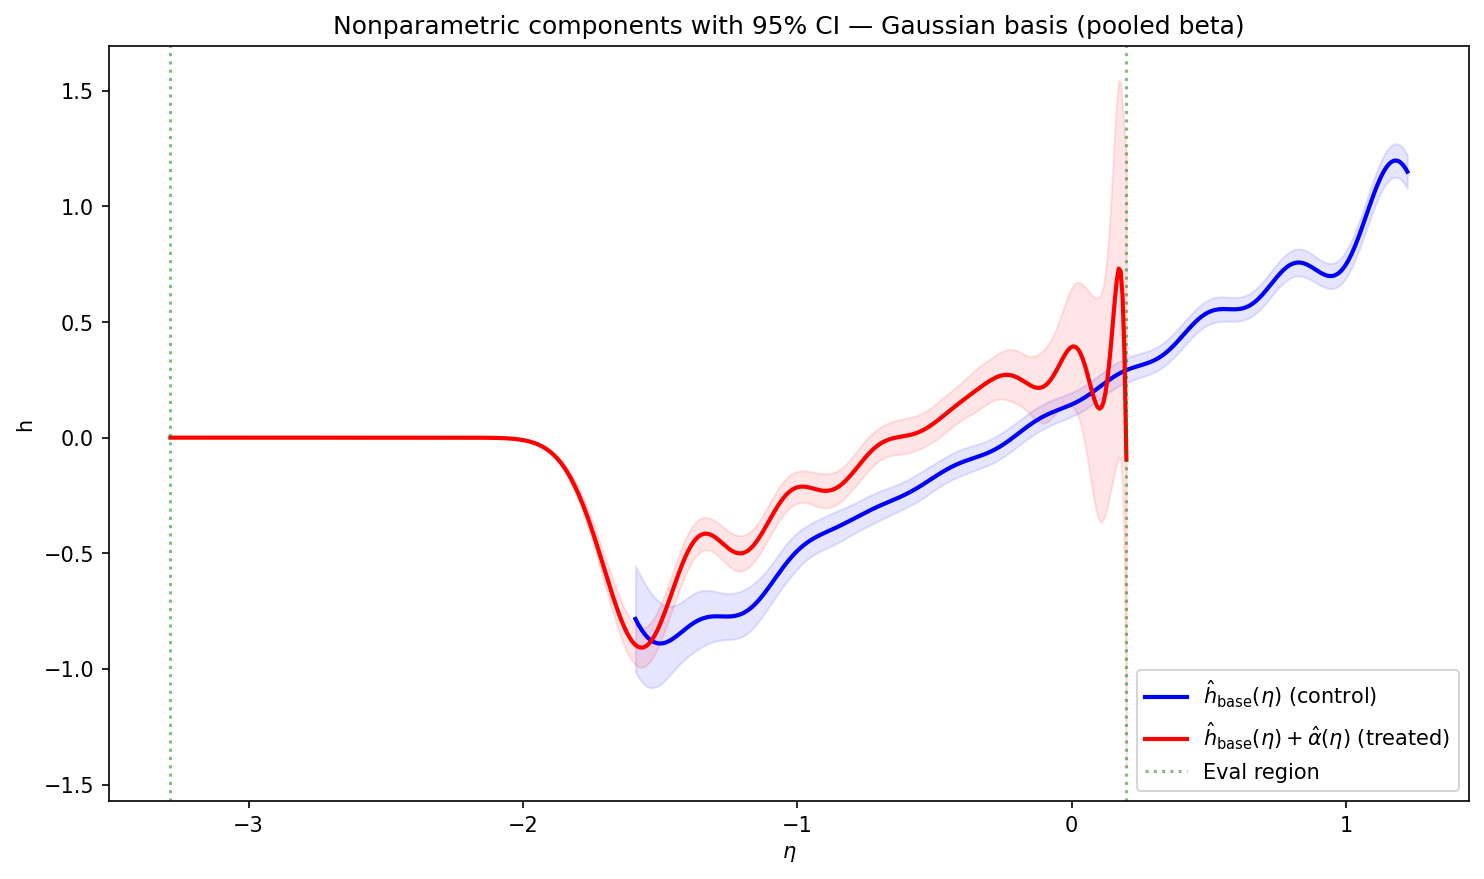
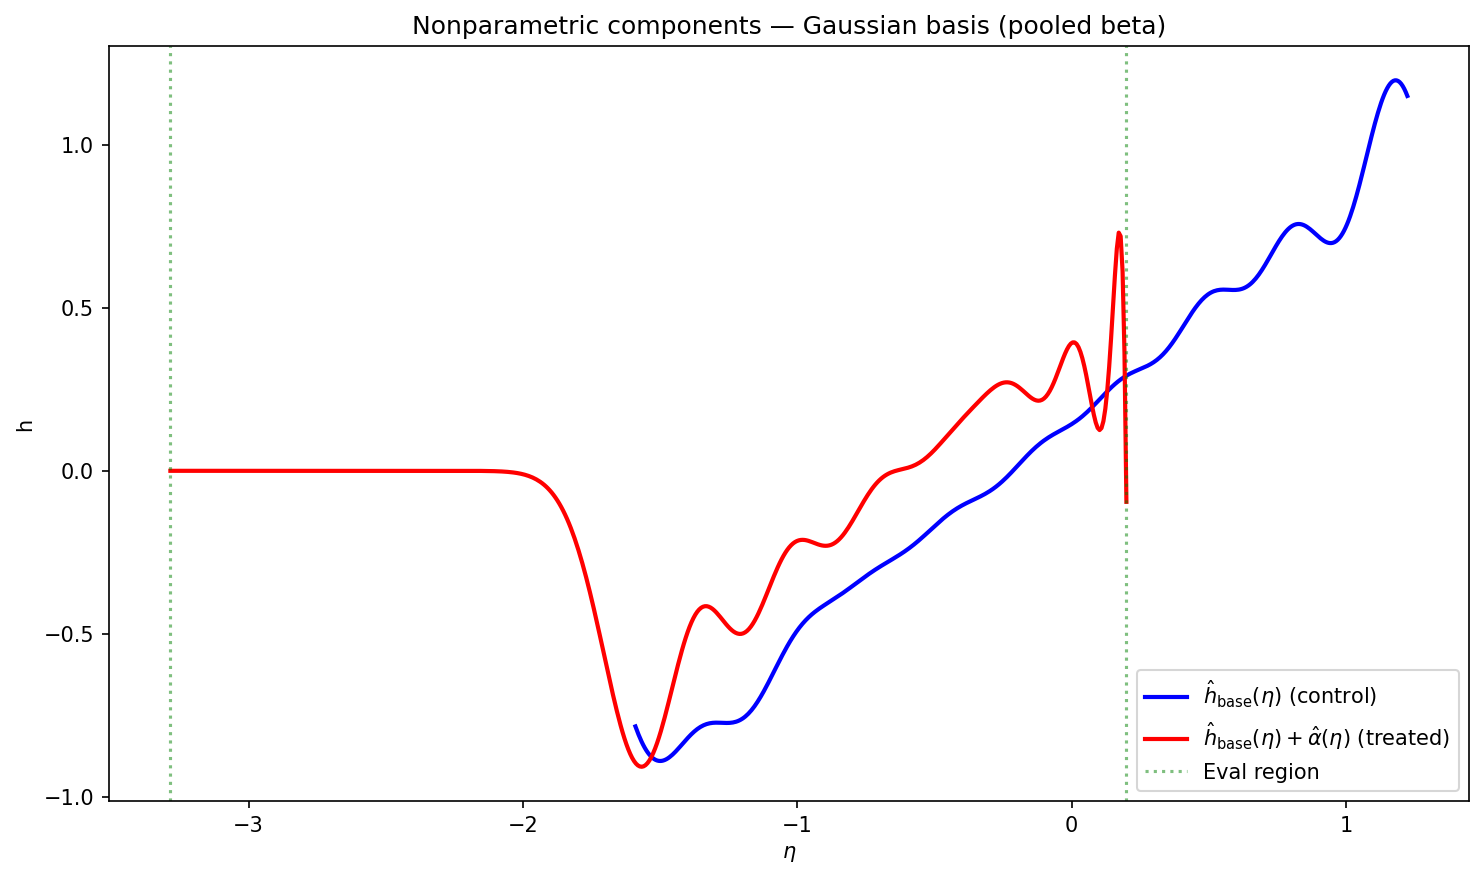
Remove 95% confidence interval bands from GPA analysis figures

diff --git a/experiments/gpa/general/daniel/gpa_analysis_gaussian.py b/experiments/gpa/general/daniel/gpa_analysis_gaussian.py
@@ -134,15 +134,8 @@ def run_analysis(eval_mode="trimmed"):
 
     print(f"\nbeta: {np.array2string(beta, precision=4, separator=', ')}")
 
-    # ---- OLS covariance for confidence intervals ----
     resid = y - H @ be
     sigma2 = np.sum(resid**2) / (n - H.shape[1])
-    HtH_inv = np.linalg.pinv(H.T @ H)
-    cov_treat = sigma2 * HtH_inv[p + n_basis:, p + n_basis:]
-    cov_base = sigma2 * HtH_inv[p:p + n_basis, p:p + n_basis]
-    cov_sum = cov_base + cov_treat + \
-              sigma2 * (HtH_inv[p:p + n_basis, p + n_basis:] +
-                        HtH_inv[p + n_basis:, p:p + n_basis])
     print(f"Residual std: {np.sqrt(sigma2):.4f}")
 
     # ---- Evaluation region ----
@@ -159,15 +152,6 @@ def run_analysis(eval_mode="trimmed"):
     eta_grid = np.linspace(eval_lo, eval_hi, 500)
     Phi_grid = _eval_basis(eta_grid, info)
     alpha_vals = Phi_grid @ omega_treat
-
-    # 95% CI for alpha
-    alpha_se = np.sqrt(np.sum((Phi_grid @ cov_treat) * Phi_grid, axis=1))
-    alpha_lo95 = alpha_vals - 1.96 * alpha_se
-    alpha_hi95 = alpha_vals + 1.96 * alpha_se
-
-    # 95% CI for h functions
-    hbase_se = np.sqrt(np.sum((Phi_grid @ cov_base) * Phi_grid, axis=1))
-    htreat_se = np.sqrt(np.sum((Phi_grid @ cov_sum) * Phi_grid, axis=1))
 
     # Plug-in
     in_eval = (eta_Tr >= eval_lo) & (eta_Tr <= eval_hi)
@@ -199,10 +183,8 @@ def run_analysis(eval_mode="trimmed"):
     fig0.savefig(os.path.join(OUTDIR, f"{tag}fig0_eta_distributions.png"), dpi=150, bbox_inches="tight")
     print(f"\nSaved {tag}fig0_eta_distributions.png")
 
-    # ---- Figure 1: alpha(eta) with 95% CI ----
+    # ---- Figure 1: alpha(eta) ----
     fig1, ax1 = plt.subplots(figsize=(10, 6))
-    ax1.fill_between(eta_grid, alpha_lo95, alpha_hi95, color="blue", alpha=0.15,
-                      label="95% CI")
     ax1.plot(eta_grid, alpha_vals, "b-", linewidth=2,
              label=r"$\hat\alpha(\eta)$")
     ax1.axhline(0, color="black", linewidth=0.5)
@@ -223,25 +205,16 @@ def run_analysis(eval_mode="trimmed"):
     fig1.savefig(os.path.join(OUTDIR, f"{tag}fig1_alpha.png"), dpi=150, bbox_inches="tight")
     print(f"Saved {tag}fig1_alpha.png")
 
-    # ---- Figure 2: h_base and h_treat with 95% CI ----
+    # ---- Figure 2: h_base and h_treat ----
     eta_grid_full = np.linspace(support[0], support[1], 500)
     Phi_full = _eval_basis(eta_grid_full, info)
     h_base_full = Phi_full @ omega_base
-    hbase_se_full = np.sqrt(np.sum((Phi_full @ cov_base) * Phi_full, axis=1))
 
     h_treat_eval = Phi_grid @ (omega_base + omega_treat)
 
     fig2, ax2 = plt.subplots(figsize=(10, 6))
-    ax2.fill_between(eta_grid_full,
-                     h_base_full - 1.96 * hbase_se_full,
-                     h_base_full + 1.96 * hbase_se_full,
-                     color="blue", alpha=0.1)
     ax2.plot(eta_grid_full, h_base_full, "b-", linewidth=2,
              label=r"$\hat h_{\mathrm{base}}(\eta)$ (control)")
-    ax2.fill_between(eta_grid,
-                     h_treat_eval - 1.96 * htreat_se,
-                     h_treat_eval + 1.96 * htreat_se,
-                     color="red", alpha=0.1)
     ax2.plot(eta_grid, h_treat_eval, "r-", linewidth=2,
              label=r"$\hat h_{\mathrm{base}}(\eta) + \hat\alpha(\eta)$ (treated)")
     ax2.axvline(eval_lo, color="green", linestyle=":", alpha=0.5)
@@ -249,7 +222,7 @@ def run_analysis(eval_mode="trimmed"):
                 label="Eval region")
     ax2.set_xlabel(r"$\eta$")
     ax2.set_ylabel("h")
-    ax2.set_title("Nonparametric components with 95% CI — Gaussian basis (pooled beta)")
+    ax2.set_title("Nonparametric components — Gaussian basis (pooled beta)")
     ax2.legend()
     fig2.tight_layout()
     fig2.savefig(os.path.join(OUTDIR, f"{tag}fig2_h_functions.png"), dpi=150, bbox_inches="tight")

diff --git a/experiments/gpa/general/daniel/gpa_analysis.py b/experiments/gpa/general/daniel/gpa_analysis.py
@@ -133,15 +133,8 @@ def run_analysis(eval_mode="trimmed"):
 
     print(f"\nbeta: {np.array2string(beta, precision=4, separator=', ')}")
 
-    # ---- OLS covariance for confidence intervals ----
     resid = y - H @ be
     sigma2 = np.sum(resid**2) / (n - H.shape[1])
-    HtH_inv = np.linalg.pinv(H.T @ H)
-    cov_treat = sigma2 * HtH_inv[p + n_basis:, p + n_basis:]
-    cov_base = sigma2 * HtH_inv[p:p + n_basis, p:p + n_basis]
-    cov_sum = cov_base + cov_treat + \
-              sigma2 * (HtH_inv[p:p + n_basis, p + n_basis:] +
-                        HtH_inv[p + n_basis:, p:p + n_basis])
     print(f"Residual std: {np.sqrt(sigma2):.4f}")
 
     # ---- Evaluation region ----
@@ -158,15 +151,6 @@ def run_analysis(eval_mode="trimmed"):
     eta_grid = np.linspace(eval_lo, eval_hi, 500)
     Phi_grid = _eval_basis(eta_grid, info)
     alpha_vals = Phi_grid @ omega_treat
-
-    # 95% CI for alpha
-    alpha_se = np.sqrt(np.sum((Phi_grid @ cov_treat) * Phi_grid, axis=1))
-    alpha_lo95 = alpha_vals - 1.96 * alpha_se
-    alpha_hi95 = alpha_vals + 1.96 * alpha_se
-
-    # 95% CI for h functions
-    hbase_se = np.sqrt(np.sum((Phi_grid @ cov_base) * Phi_grid, axis=1))
-    htreat_se = np.sqrt(np.sum((Phi_grid @ cov_sum) * Phi_grid, axis=1))
 
     # Plug-in
     in_eval = (eta_Tr >= eval_lo) & (eta_Tr <= eval_hi)
@@ -198,10 +182,8 @@ def run_analysis(eval_mode="trimmed"):
     fig0.savefig(os.path.join(OUTDIR, f"{tag}fig0_eta_distributions.png"), dpi=150, bbox_inches="tight")
     print(f"\nSaved {tag}fig0_eta_distributions.png")
 
-    # ---- Figure 1: alpha(eta) with 95% CI ----
+    # ---- Figure 1: alpha(eta) ----
     fig1, ax1 = plt.subplots(figsize=(10, 6))
-    ax1.fill_between(eta_grid, alpha_lo95, alpha_hi95, color="blue", alpha=0.15,
-                      label="95% CI")
     ax1.plot(eta_grid, alpha_vals, "b-", linewidth=2,
              label=r"$\hat\alpha(\eta)$")
     ax1.axhline(0, color="black", linewidth=0.5)
@@ -222,25 +204,16 @@ def run_analysis(eval_mode="trimmed"):
     fig1.savefig(os.path.join(OUTDIR, f"{tag}fig1_alpha.png"), dpi=150, bbox_inches="tight")
     print(f"Saved {tag}fig1_alpha.png")
 
-    # ---- Figure 2: h_base and h_treat with 95% CI ----
+    # ---- Figure 2: h_base and h_treat ----
     eta_grid_full = np.linspace(support[0], support[1], 500)
     Phi_full = _eval_basis(eta_grid_full, info)
     h_base_full = Phi_full @ omega_base
-    hbase_se_full = np.sqrt(np.sum((Phi_full @ cov_base) * Phi_full, axis=1))
 
     h_treat_eval = Phi_grid @ (omega_base + omega_treat)
 
     fig2, ax2 = plt.subplots(figsize=(10, 6))
-    ax2.fill_between(eta_grid_full,
-                     h_base_full - 1.96 * hbase_se_full,
-                     h_base_full + 1.96 * hbase_se_full,
-                     color="blue", alpha=0.1)
     ax2.plot(eta_grid_full, h_base_full, "b-", linewidth=2,
              label=r"$\hat h_{\mathrm{base}}(\eta)$ (control)")
-    ax2.fill_between(eta_grid,
-                     h_treat_eval - 1.96 * htreat_se,
-                     h_treat_eval + 1.96 * htreat_se,
-                     color="red", alpha=0.1)
     ax2.plot(eta_grid, h_treat_eval, "r-", linewidth=2,
              label=r"$\hat h_{\mathrm{base}}(\eta) + \hat\alpha(\eta)$ (treated)")
     ax2.axvline(eval_lo, color="green", linestyle=":", alpha=0.5)
@@ -248,7 +221,7 @@ def run_analysis(eval_mode="trimmed"):
                 label="Eval region")
     ax2.set_xlabel(r"$\eta$")
     ax2.set_ylabel("h")
-    ax2.set_title("Nonparametric components with 95% CI (pooled beta)")
+    ax2.set_title("Nonparametric components (pooled beta)")
     ax2.legend()
     fig2.tight_layout()
     fig2.savefig(os.path.join(OUTDIR, f"{tag}fig2_h_functions.png"), dpi=150, bbox_inches="tight")
